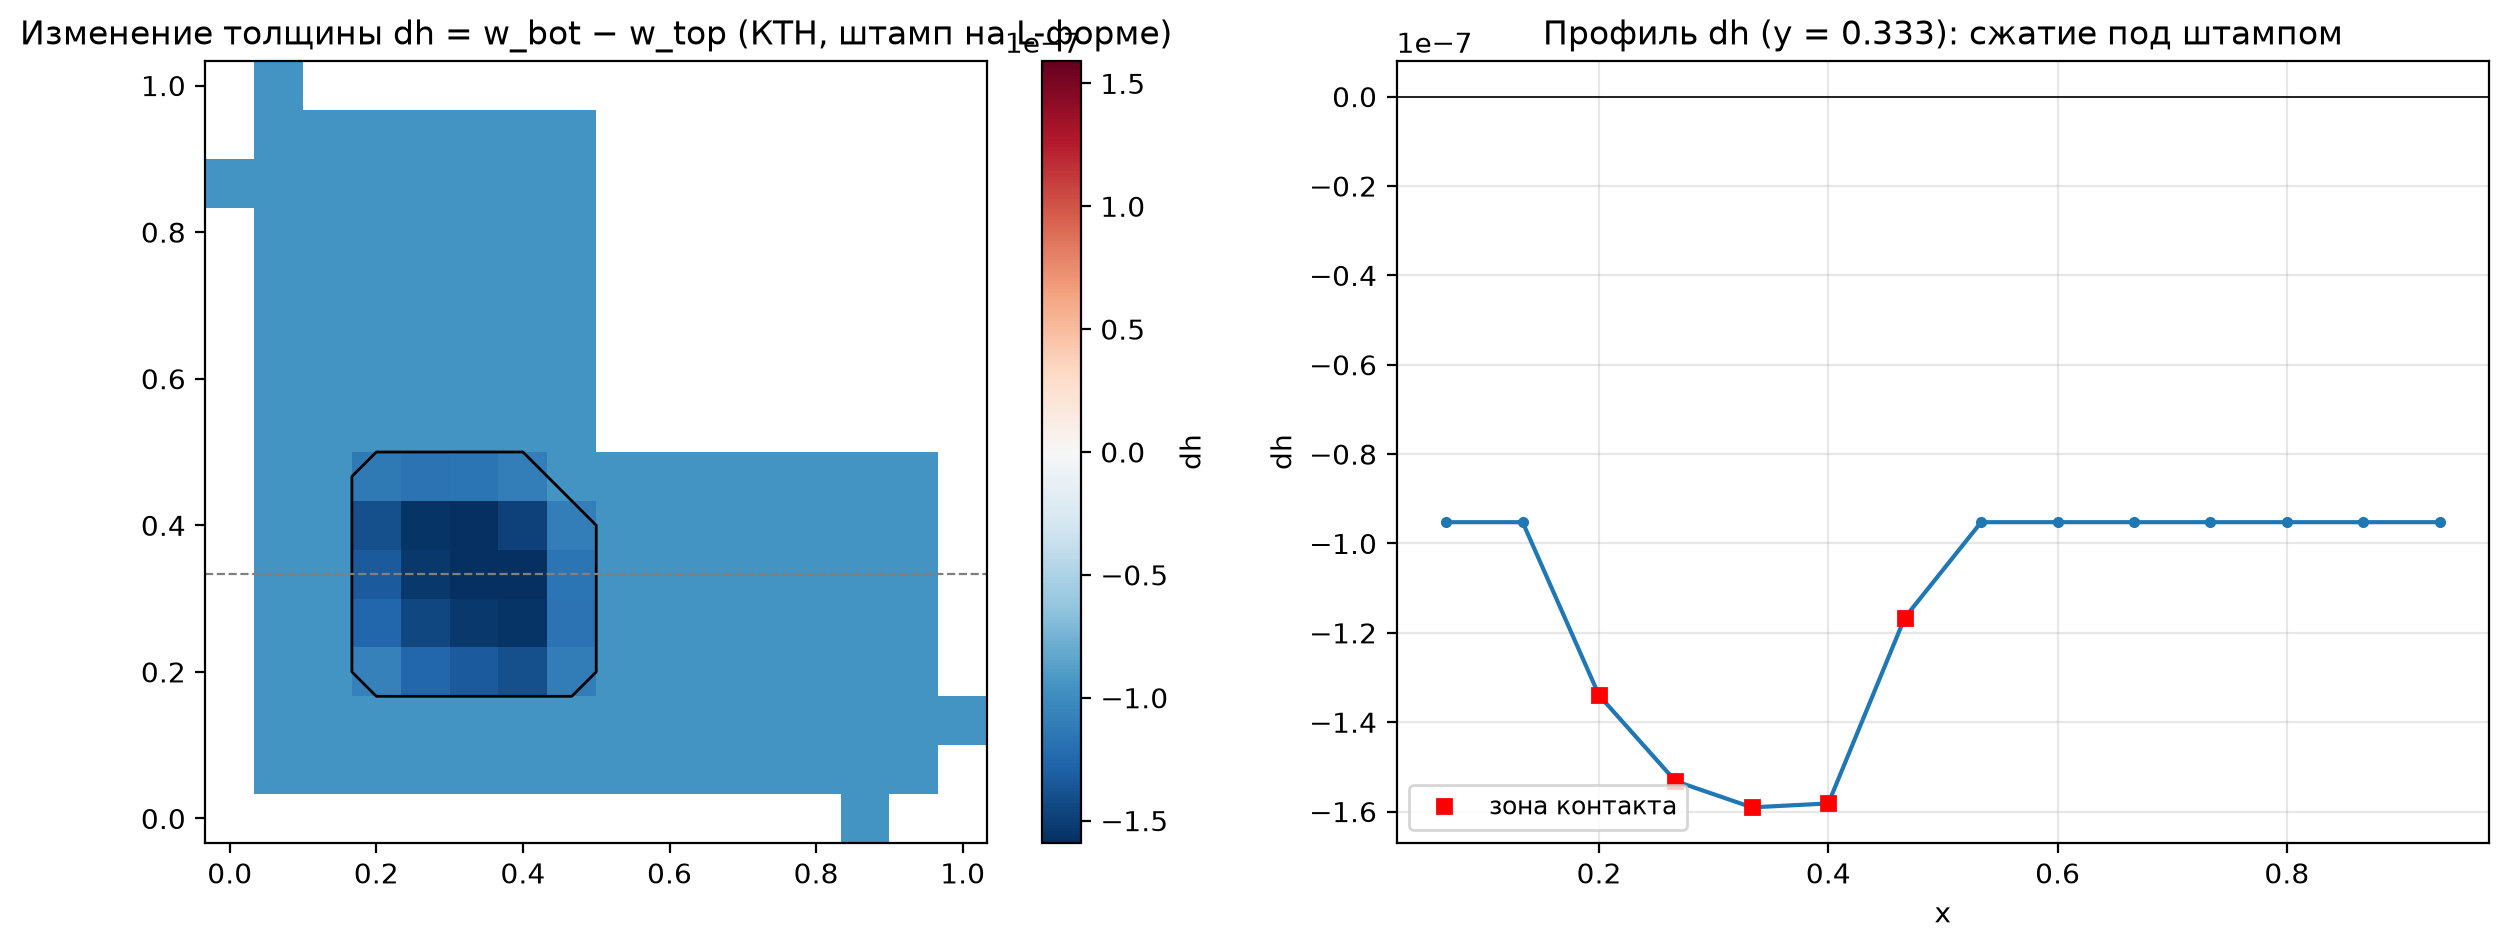
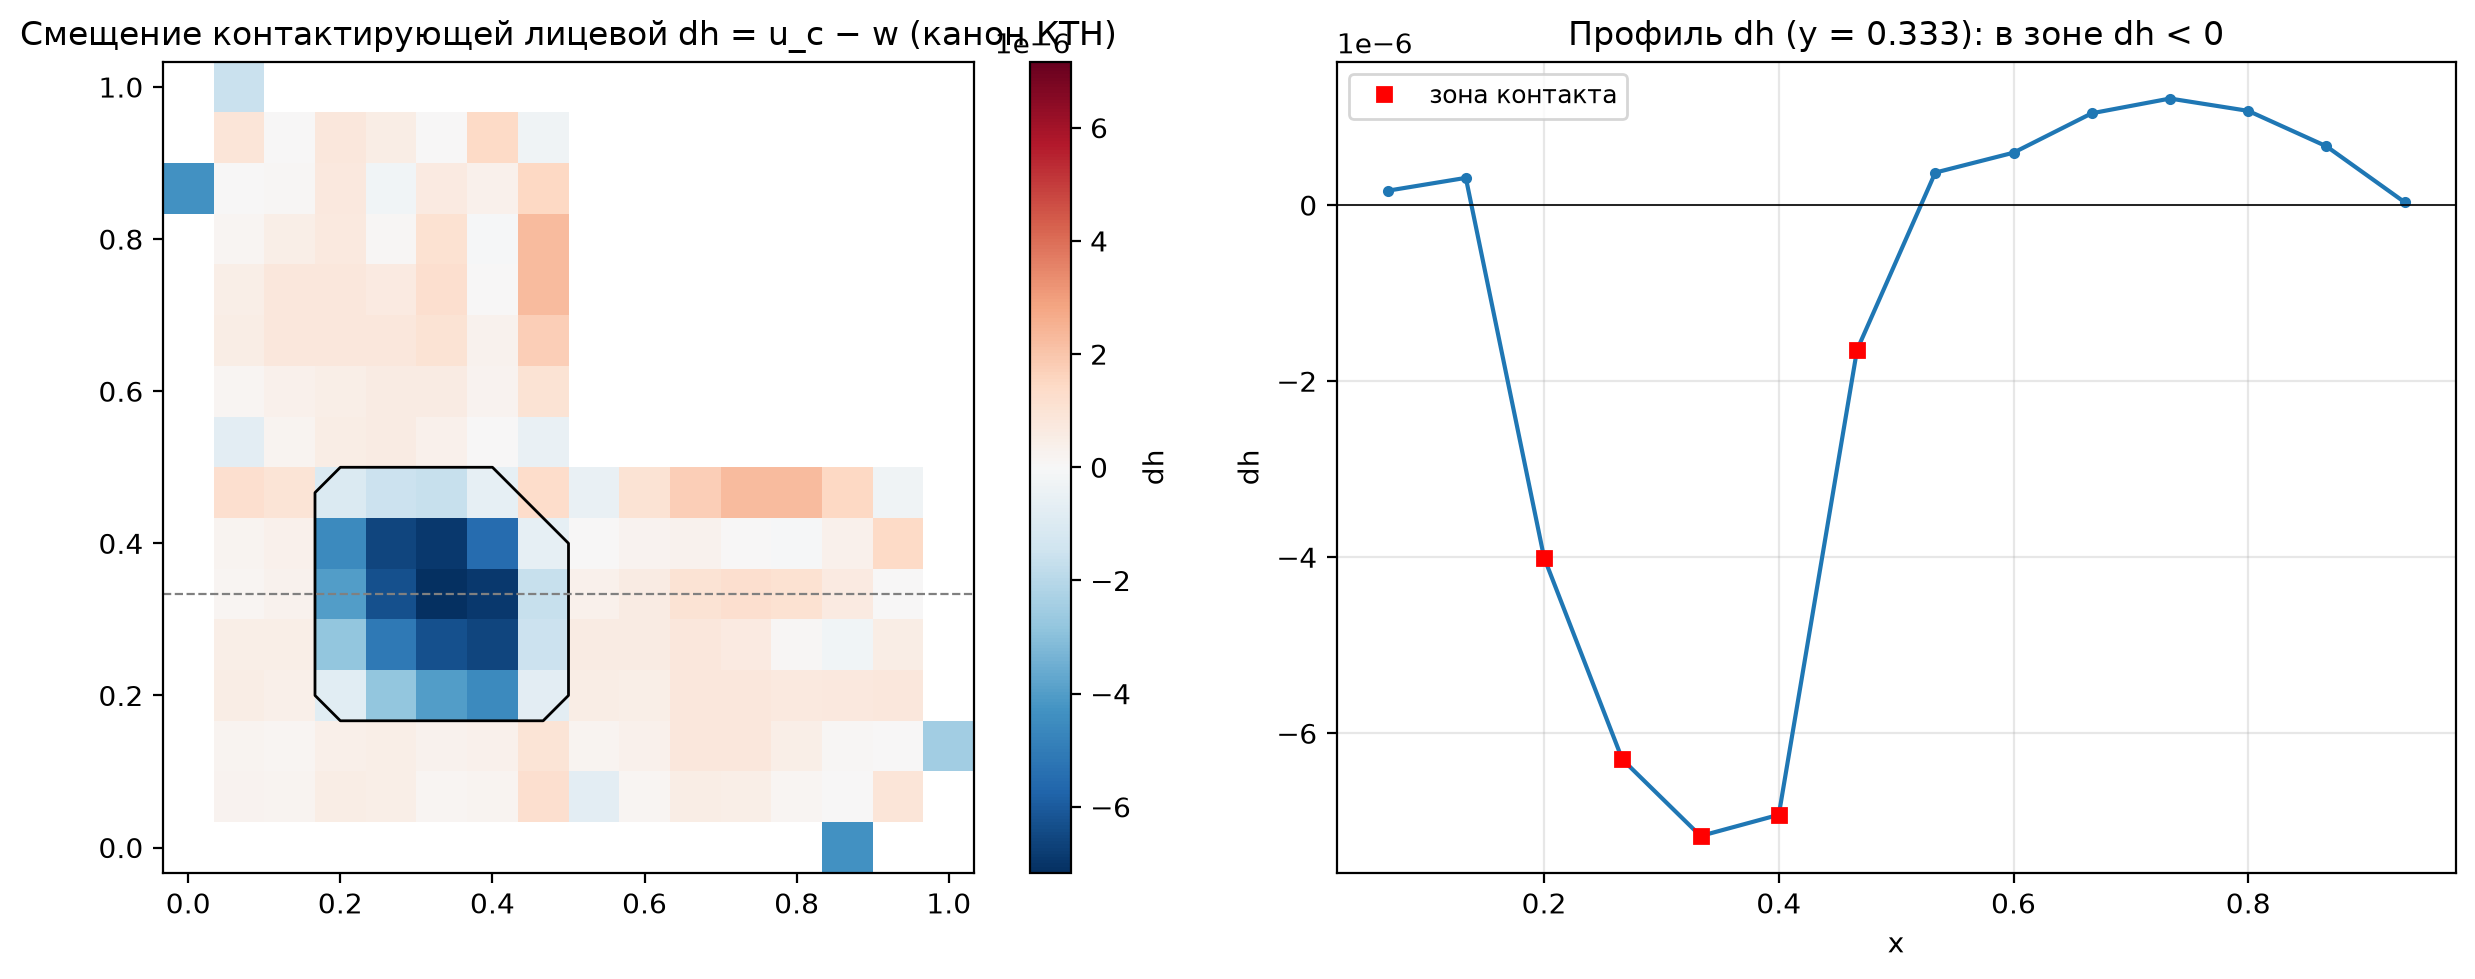
freeze / F3.2: решение автора — канон контакта кинематика КТН
NOTES §21 разбит: 21.1 «Канон: кинематика КТН» (формулы кода; u_c —
контактирующая лицевая; согласование §16/§18, 1D-тождество) и 21.2
«3D-восстановление (независимая диагностика)»: вывод через ε_z, точные
символьные разности Δb_q/Δb_r заморожены постоянными воротами т6 (не
ослаблены), природа расхождения — поточечное восстановление против
вариационного определения параметров обжатия, в пределах O(h²)-точности;
кривизный блок тождественен ⇒ поверхность и знаки подтверждены.

F3.7 переведён на канон 21.1: w_bot = u_c (contact_displacement на
сетке); канон выделяет формулой только контактирующую лицевую ⇒
w_top ≡ w (срединная, без смешения канонов), dh = w_bot − w (в зоне
строго dh < 0 — факт на снимке). Формулы кода НЕ менялись. Снимок
dh-профиля в baselines перезаписан по канону; числовая справка
lshape_ktn_recovery_vs_canon (info): max|recovery−канон| по зоне =
0.388·w_max = 0.964·|КТН-поправки|. THEORY §5–6, CASE_SCHEMA, докстринги
обновлены. Ворота т7 (ручной расчёт ≡ решатель, 1e-12) — по 21.1.

diff --git a/src/plate_solver/dispatch.py b/src/plate_solver/dispatch.py
@@ -200,23 +200,26 @@ class Result:
     def faces_on_grid(self):
         """(w_top, w_bot, dh) на сетке — прогибы лицевых поверхностей (F3.7).
 
-        theory = ktn: по формулам NOTES §21 п. 1 (классическое прямое
-        интегрирование обжатия, согласованное с каноном §19):
-        w_bot = w + h_*²·Δw − h(3q⁺ + 13q⁻)/(32E), w_top = w + h_*²·Δw +
-        h(13q⁺ + 3q⁻)/(32E); Δw = −(Mx + My)/(D(1+ν)). theory = classic:
-        обжатие — атрибут уточнённой теории, обе лицевые ≡ срединной.
+        theory = ktn — КАНОН 21.1 (кинематика КТН, формулы кода, NOTES §21):
+        w_bot = u_c = ktn.contact_displacement(w, Δw, q⁺, q⁻) — прогиб
+        контактирующей (нижней) лицевой; Δw = −(Mx + My)/(D(1+ν)). Канон
+        выделяет формулой только контактирующую лицевую: w_top ≡ w
+        (срединная, без смешения канонов), dh = w_bot − w — каноническое
+        смещение контактирующей лицевой (в зоне контакта dh < 0).
+        theory = classic: обе лицевые ≡ срединной, dh ≡ 0. Классическое
+        3D-восстановление — независимая диагностика (NOTES §21.2).
         """
         if self.problem.model is None or self.problem.model.theory != "ktn":
             return self.w_grid.copy(), self.w_grid.copy(), \
                 np.zeros_like(self.w_grid)
+        from .ktn import KTNParams
+
         Mx, My, _ = self.moments_on_grid()
         q_top, q_bot = self._q_faces_on_grid()
-        h_, E_, nu_ = self.config.h, self.config.E, self.config.nu
-        lap = -(Mx + My) / (self.config.D * (1.0 + nu_))
-        hst2 = nu_ * h_**2 / (8.0 * (1.0 - nu_))
-        w_top = self.w_grid + hst2 * lap + h_ * (13 * q_top + 3 * q_bot) / (32 * E_)
-        w_bot = self.w_grid + hst2 * lap - h_ * (3 * q_top + 13 * q_bot) / (32 * E_)
-        return w_top, w_bot, w_bot - w_top
+        lap = -(Mx + My) / (self.config.D * (1.0 + self.config.nu))
+        kp = KTNParams.from_config(self.config)
+        w_bot = kp.contact_displacement(self.w_grid, lap, q_top, q_bot)
+        return self.w_grid.copy(), w_bot, w_bot - self.w_grid
 
     def save_fields(self, path) -> None:
         """fields.npz (версия схемы полей = 2): w, моменты, σ-шестёрка, контакт.

diff --git a/tests/test_face_deflection.py b/tests/test_face_deflection.py
@@ -1,11 +1,12 @@
 """Прогиб лицевых поверхностей (NOTES §21): вывод, сверка канонов, тождества.
 
-т1–т5 — символика (sympy): профиль σ_z, коэффициенты лицевых, тождество
-кривизны с кинематикой КТН, изменение толщины, редукция 2D→1D.
-т6 — ФИКСАЦИЯ расхождения q,r-членов двух выводов (протокол F3.2: до
-решения автора обе формулы — константы канона; «починка» любой из них
-обязана уронить этот тест). т7 — тождество пути решателя: ручной пересчёт
-контактного смещения по коэффициентам первоисточника ≡ ktn.py (1e-12);
+РЕШЕНИЕ F3.2 (канон пакета): контактная кинематика — КТН (NOTES §21.1,
+формулы кода); 3D-восстановление (§21.2) — независимая диагностика.
+т1–т5 — символика восстановления (sympy): профиль σ_z, коэффициенты,
+тождество кривизны с кинематикой КТН (подтверждает поверхность и знаки
+канона), изменение толщины, редукция 2D→1D. т6 — ПОСТОЯННЫЕ ворота на
+ОБА вывода и их точные разности Δb_q, Δb_r (не ослаблять). т7 — тождество
+пути решателя: ручной пересчёт по канону 21.1 ≡ ktn.py (1e-12);
 классика: смещение ≡ w.
 """
 
@@ -91,10 +92,11 @@ def test_t5_reduction_2d_to_1d():
 
 
 def test_t6_freeze_divergence_with_ktn_kinematics():
-    """т6 (F3.2): q,r-члены §21-классики и кинематики КТН РАЗЛИЧНЫ.
+    """т6: разности q,r-членов восстановления (§21.2) и канона КТН (§21.1).
 
-    Разности зафиксированы как константы канона (см. NOTES §21, п. 3);
-    сшивка требует решения автора. Изменение ЛЮБОЙ из сторон роняет тест.
+    Точные символьные Δb_q, Δb_r — ПОСТОЯННЫЕ ворота на оба вывода
+    (решение F3.2: канон — КТН; восстановление — диагностика в пределах
+    O(h²)-точности теории). Изменение ЛЮБОЙ из сторон роняет тест.
     """
     mu_ = E / (2 * (1 + nu))
     lamb = nu * E / ((1 + nu) * (1 - 2 * nu))
@@ -224,8 +226,9 @@ def test_t8_classic_faces_identical(tmp_path):
 
 
 def test_t9_ktn_dh_sign_and_profile_regression():
-    """F3.7-ворота (ktn, L-серия): dh < 0 в зоне (сжатие, §19/§21);
-    пик обжатия — в зоне; профиль dh через зону — регресс в baselines."""
+    """F3.7-ворота (ktn, L-серия; КАНОН 21.1): dh = u_c − w < 0 в зоне
+    (контактирующая лицевая идёт к основанию); пик |dh| — в зоне;
+    профиль dh через зону — регресс в baselines."""
     import json
 
     from plate_solver.dispatch import solve

diff --git a/src/plate_solver/ktn.py b/src/plate_solver/ktn.py
@@ -106,10 +106,11 @@ class KTNParams:
         """Прогиб контактирующей (НИЖНЕЙ) лицевой поверхности u_c по КТН.
 
         Этой величиной проверяется зазор в контактном условии (обновление r).
-        Формула — первоисточник (1D-скрипты школы); статус сверки с
-        классическим прямым интегрированием по толщине — NOTES §21, п. 3
-        (кривизна согласована структурно, q,r-члены различаются; сшивка —
-        за автором). Синоним: :meth:`w_face_bottom`.
+        КАНОН ПАКЕТА (решение F3.2, NOTES §21.1); первоисточник — 1D-теория
+        школы. Классическое 3D-восстановление — независимая диагностика
+        (§21.2): кривизный блок тождественен (поверхность и знаки
+        подтверждены), q,r-члены различаются в пределах O(h²)-точности
+        теории. Синоним: :meth:`w_face_bottom`.
         """
         r = np.asarray(r, float)
         return (

diff --git a/docs/NOTES.md b/docs/NOTES.md
@@ -356,57 +356,71 @@ Mxy — bending_moments_full; у расщепления M-поле (P1) — сл
 max-по-сетке даёт ложные ~1e-4 расположения максимума).
 
 
+
 ## 21. Прогиб лицевых поверхностей и контактное условие
 
-**1) Классический вывод (прямое интегрирование по толщине).** Конвенция
-§0/§19: ось z вниз, верхняя лицевая z = −h/2 (внешняя нагрузка q⁺),
-нижняя z = +h/2 (реакция основания q⁻ = r в зоне контакта). Профиль σ_z —
-из уравнения равновесия ∂σ_z/∂z = −div τ с классическим параболическим τ
-и лицевыми условиями σ_z(−h/2) = −q⁺, σ_z(+h/2) = −q⁻ (согласовано со
-знаками §19: давление — сжатие). Обжатие ε_z = [σ_z − ν(σ_x + σ_y)]/E,
-где σ_x + σ_y = 12(M_x + M_y)·z/h³ — изгибная (линейная по z) часть.
-Интегрирование ε_z от срединной до лицевых даёт (sympy-вывод —
-tests/test_face_deflection.py):
+РЕШЕНИЕ (канон пакета): контактная кинематика — уточнённая теория КТН
+(п. 21.1, формулы кода; первоисточник — 1D-теория школы); классическое
+3D-восстановление (п. 21.2) — НЕЗАВИСИМАЯ ДИАГНОСТИКА, подтверждающая
+поверхность и знаки. Формулы кода не меняются.
 
-    w_bot = w_mid + h_*²·Δw − h·(3 q⁺ + 13 q⁻) / (32 E),
-    w_top = w_mid + h_*²·Δw + h·(13 q⁺ + 3 q⁻) / (32 E),
-    dh    = w_bot − w_top = −h·(q⁺ + q⁻) / (2 E) ≤ 0,
+### 21.1. Канон: кинематика КТН (формулы кода)
 
-где h_*² = νh²/(8(1−ν)) — длина поправки обжатия (ktn.py). Физика знаков
-(z вниз): при q⁺ > 0 верхняя лицевая опускается (w_top > w_mid), нижняя
-поднимается (w_bot < w_mid) — толщина убывает (dh < 0, сжатие) — в
-согласии с σ-обжатием §19. Изгибный член h_*²·Δw смещает ОБЕ лицевые
-одинаково и толщину не меняет.
-
-**2) Кинематика КТН (первоисточник; реализация пакета).** Зазор в
-ktn-контакте проверяется величиной (contact_displacement — прогиб
-контактирующей, нижней лицевой поверхности по теории КТН):
+Прогиб КОНТАКТИРУЮЩЕЙ (нижней) лицевой поверхности — этой величиной
+проверяется зазор в контактном условии (ktn.contact_displacement,
+синоним w_face_bottom):
 
     u_c = w + (2h_*² − h_Ψ²)·Δw − [h/(8(λ+2μ)) − h_*²/(μh) + h_*²h_z²/D]·q⁺
                                 − [3h/(8(λ+2μ)) + h_*²/(μh) − h_*²h_z²/D]·D·r,
 
-прогиб для w_max (corrected_deflection):
+КТН-прогиб для w_max (ktn.corrected_deflection):
 
     w_KTN = w + (2h_*² − h_Ψ²)·Δw + [(3ν−1)h/(8(1−ν)E) − h_*²h_z²/D]·q⁺
                                   + [(3−ν)h/(8(1−ν)E) + h_*²h_z²/D]·D·r.
 
-**3) Сверка выводов (протокол F3.2).** Кривизна согласована СТРУКТУРНО:
-2h_*² − h_Ψ² ≡ h_*² − h_z² — обжимной сдвиг лицевой (+h_*²·Δw, п. 1)
-плюс сдвиговая поправка срединного прогиба (−h_z²·Δw) — sympy-тождество.
-q⁺- и r-члены НЕ совпадают: классическое прямое интегрирование (п. 1)
-даёт коэффициенты вида h/(32E) без сдвиговых членов, кинематика КТН
-(п. 2) содержит стеснённое обжатие (1/(λ+2μ)) и сдвиговую податливость
-(1/(μh)); точные разности зафиксированы sympy-тестом как константы
-канона. Ожидаемая причина: п. 1 — первое приближение на классических
-профилях напряжений, п. 2 — теория более высокого порядка; сшивка двух
-выводов (какая величина есть «прогиб нижней лицевой» в строгом смысле
-КТН) ТРЕБУЕТ РЕШЕНИЯ АВТОРА. До решения: формулы контакта в коде не
-меняются (первоисточник — 1D-скрипты школы), выходные ПОЛЯ лицевых
-поверхностей (fields.npz: w_top, w_bot, dh) строятся по п. 1 —
-согласованному с каноном напряжений §19.
+Согласование обозначений — §16/§18 (h_Ψ², h_*², h_z², c_curv из ktn.py);
+редукция 2D → 1D при ∂/∂y = 0 совпадает с 1D-скриптом первоисточника
+дословно (тождество F3.4, tests/test_face_deflection.py). Ворота
+«ручной расчёт по 21.1 ≡ путь решателя» (1e-12) — тест т7 там же.
 
-**4) Редукция 2D → 1D.** При ∂/∂y = 0 (цилиндрический изгиб: M_y = νM_x,
-M_x + M_y = −D(1+ν)w″) выражения п. 1 переходят в одномерные с ТЕМИ ЖЕ
-коэффициентами (sympy-тождество в тестах); 1D-модули пакета (mor1d,
-stamp*) — классические (без КТН-поправок), редукция контактного условия
-п. 2 при ∂/∂y = 0 совпадает с 1D-скриптом первоисточника дословно.
+Выходные ПОЛЯ лицевых поверхностей (fields.npz, схема 2) при
+theory = ktn считаются ПО КАНОНУ 21.1: w_bot = u_c; канон выделяет
+формулой только контактирующую лицевую, поэтому w_top ≡ w (срединная —
+без смешения канонов), а dh = w_bot − w = каноническое смещение
+контактирующей лицевой (в зоне контакта строго dh < 0 — обжатие/подъём
+нижней поверхности к основанию; вне зоны знак определяется кривизным
+членом). theory = classic: w_top ≡ w ≡ w_bot, dh ≡ 0.
+
+### 21.2. 3D-восстановление (независимая диагностика)
+
+Классическое прямое интегрирование по толщине: профиль σ_z — из
+уравнения равновесия ∂σ_z/∂z = −div τ с параболическим τ и лицевыми
+условиями σ_z(−h/2) = −q⁺, σ_z(+h/2) = −q⁻ (знаки §19); обжатие
+ε_z = [σ_z − ν(σ_x + σ_y)]/E с изгибной частью σ_x + σ_y = 12(M_x+M_y)z/h³.
+Интегрирование ε_z от срединной до лицевых даёт (sympy-вывод —
+tests/test_face_deflection.py, т1–т5):
+
+    w_bot^rec = w_mid + h_*²·Δw − h·(3 q⁺ + 13 q⁻) / (32 E),
+    w_top^rec = w_mid + h_*²·Δw + h·(13 q⁺ + 3 q⁻) / (32 E),
+    dh^rec    = −h·(q⁺ + q⁻) / (2 E) ≤ 0.
+
+**Сверка с каноном.** Кривизный блок ТОЖДЕСТВЕНЕН:
+2h_*² − h_Ψ² ≡ h_*² − h_z² — обжимной сдвиг лицевой (+h_*²·Δw)
+плюс сдвиговая поправка срединного прогиба (−h_z²·Δw); тем самым
+восстановление подтверждает ПОВЕРХНОСТЬ (нижняя лицевая) и ЗНАКИ канона.
+q,r-члены различаются; точные символьные разности заморожены
+постоянными воротами т6 (не ослаблять):
+
+    Δb_q = b_q^rec − b_q^КТН = h(6ν³ + 14ν² + ν − 1) / (32E(ν − 1)),
+    Δb_r = b_r^rec − b_r^КТН·D
+         = h(Eh³ν² − 4Eh³ν + 2Eh³ − 26ν² + 52ν − 26) / (64E(ν − 1)²).
+
+**Природа расхождения.** Восстановление 21.2 — ПОТОЧЕЧНОЕ (локальное)
+восстановление обжатия по классическим профилям напряжений; кинематика
+КТН — ВАРИАЦИОННОЕ определение параметров обжатия и сдвига (стеснённое
+обжатие 1/(λ+2μ), сдвиговая податливость 1/(μh)). Оба описания —
+поправки порядка O(h²) к классике, и их различие лежит в пределах
+O(h²)-точности самой теории (числовая справка на замороженном снимке
+L-контакта — cases/baselines.json, «lshape_ktn_recovery_vs_canon»:
+разность порядка самой КТН-поправки). Для контакта и выходных полей
+канон — 21.1.

diff --git a/CHANGELOG.md b/CHANGELOG.md
@@ -33,8 +33,10 @@
   Морли-МКЭ, ступени rect_sfsf / rect_cfff (консоль).
 - ПОЛЯ ЛИЦЕВЫХ ПОВЕРХНОСТЕЙ: w_top / w_bot / dh в fields.npz (схема 2,
   NOTES §21), `--surface mid|top|bottom`, σ-шестёрка ВТОРОЙ пластины
-  пары; NOTES §21 — вывод и сверка канонов (сшивка q,r-членов — вопрос
-  автору, зафиксирован sympy-тестом).
+  пары; NOTES §21: канон — кинематика КТН (решение автора, §21.1),
+  классическое 3D-восстановление — независимая диагностика (§21.2,
+  кривизный блок тождественен, разности q,r-членов — постоянные
+  sympy-ворота; различие в пределах O(h²)-точности теории).
 - Единый эталонный регресс: `scripts/run_reference.py` (золотая серия +
   1D-штамп + структура-против-штрафа + вся лестница) → отчёт под
   хеш-воротами; детерминизм повторного прогона — тестом.

diff --git a/docs/FEATURES.md b/docs/FEATURES.md
@@ -42,7 +42,7 @@ tests/test_doc_matrix.py).
 | model.E | API.md, ARCHITECTURE.md, CASE_SCHEMA.md | annulus_clamped.toml, annulus_soft.toml, annulus_soft_contact.toml |
 | model.h | API.md, ARCHITECTURE.md, CASE_SCHEMA.md | annulus_clamped.toml, annulus_clamped.toml, annulus_soft.toml |
 | model.nu | API.md, CASE_SCHEMA.md, FEATURES.md | annulus_clamped.toml, annulus_clamped.toml, annulus_soft.toml |
-| model.theory | CASE_SCHEMA.md, FEATURES.md, README.md | test_dispatch.py, test_face_deflection.py, test_problem.py |
+| model.theory | CASE_SCHEMA.md, FEATURES.md, NOTES.md | test_dispatch.py, test_face_deflection.py, test_problem.py |
 | output.dir | API.md, CASE_SCHEMA.md, FEATURES.md | annulus_clamped.toml, annulus_clamped.toml, annulus_soft.toml |
 | output.figures | CASE_SCHEMA.md, FEATURES.md, README.md | golden_config.py, run_circle_1d_2d.py, run_clamped_circle.py |
 | plate2.bc | CASE_SCHEMA.md, FEATURES.md, THEORY.md | annulus_clamped.toml, annulus_clamped.toml, annulus_soft.toml |